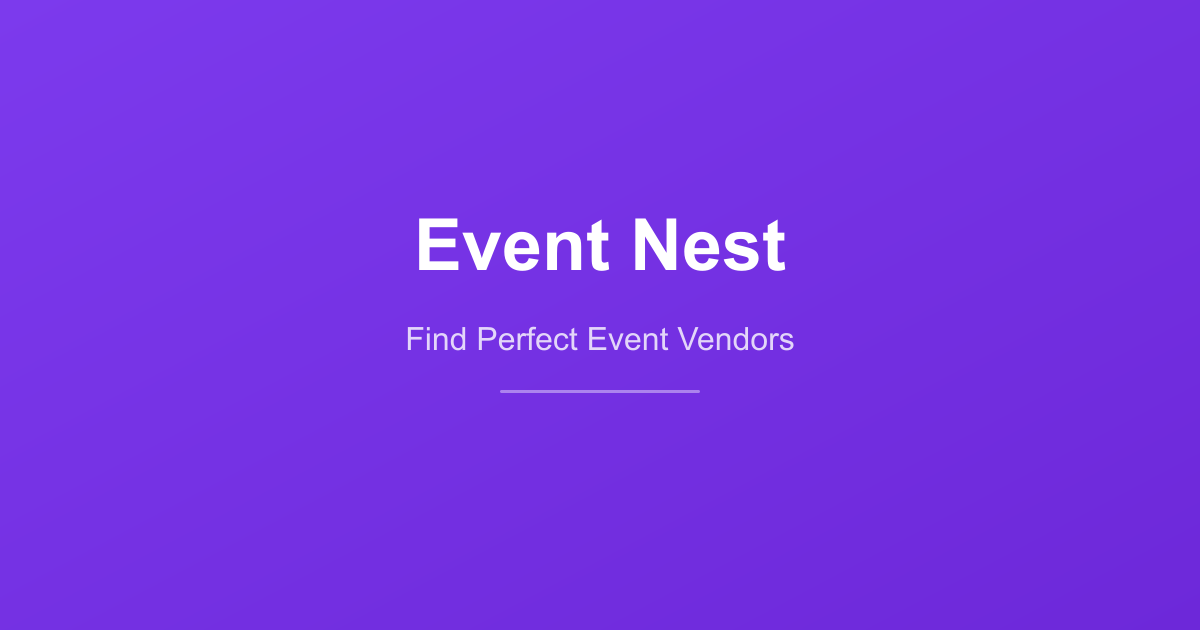
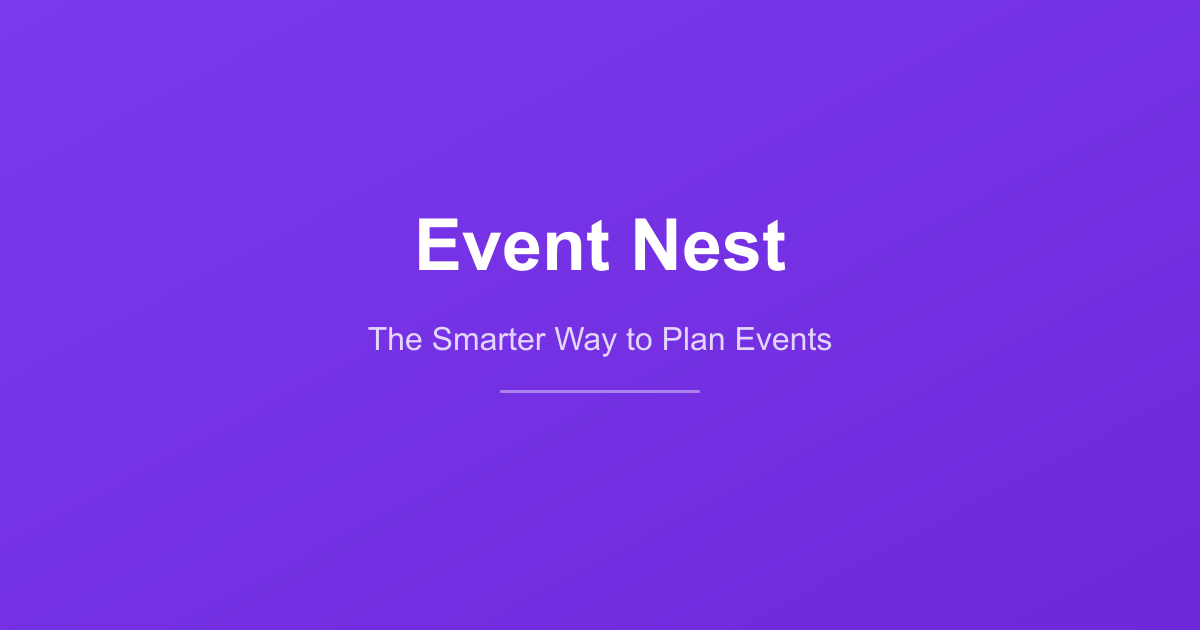
Update tagline to 'The Smarter Way to Plan Events'

Changed region(s): [[0.3083, 0.5127, 0.7092, 0.573]]

diff --git a/app/layout.js b/app/layout.js
@@ -6,7 +6,7 @@ import CookieConsent from '@/components/CookieConsent'
 import GoogleAnalytics from '@/components/GoogleAnalytics'
 
 export const metadata = {
-  title: 'Event Nest - Find Perfect Event Vendors',
+  title: 'Event Nest - The Smarter Way to Plan Events',
   description: 'Browse top-rated caterers, photographers, DJs, florists and more. Plan your dream event with confidence.',
   icons: {
     icon: [
@@ -24,14 +24,14 @@ export const metadata = {
     title: 'Event Nest',
   },
   openGraph: {
-    title: 'Event Nest - Find Perfect Event Vendors',
+    title: 'Event Nest - The Smarter Way to Plan Events',
     description: 'Browse top-rated caterers, photographers, DJs, florists and more. Plan your dream event with confidence.',
     type: 'website',
     images: [{ url: '/og-image.png', width: 1200, height: 630 }],
   },
   twitter: {
     card: 'summary_large_image',
-    title: 'Event Nest - Find Perfect Event Vendors',
+    title: 'Event Nest - The Smarter Way to Plan Events',
     description: 'Browse top-rated caterers, photographers, DJs, florists and more. Plan your dream event with confidence.',
     images: ['/og-image.png'],
   },
